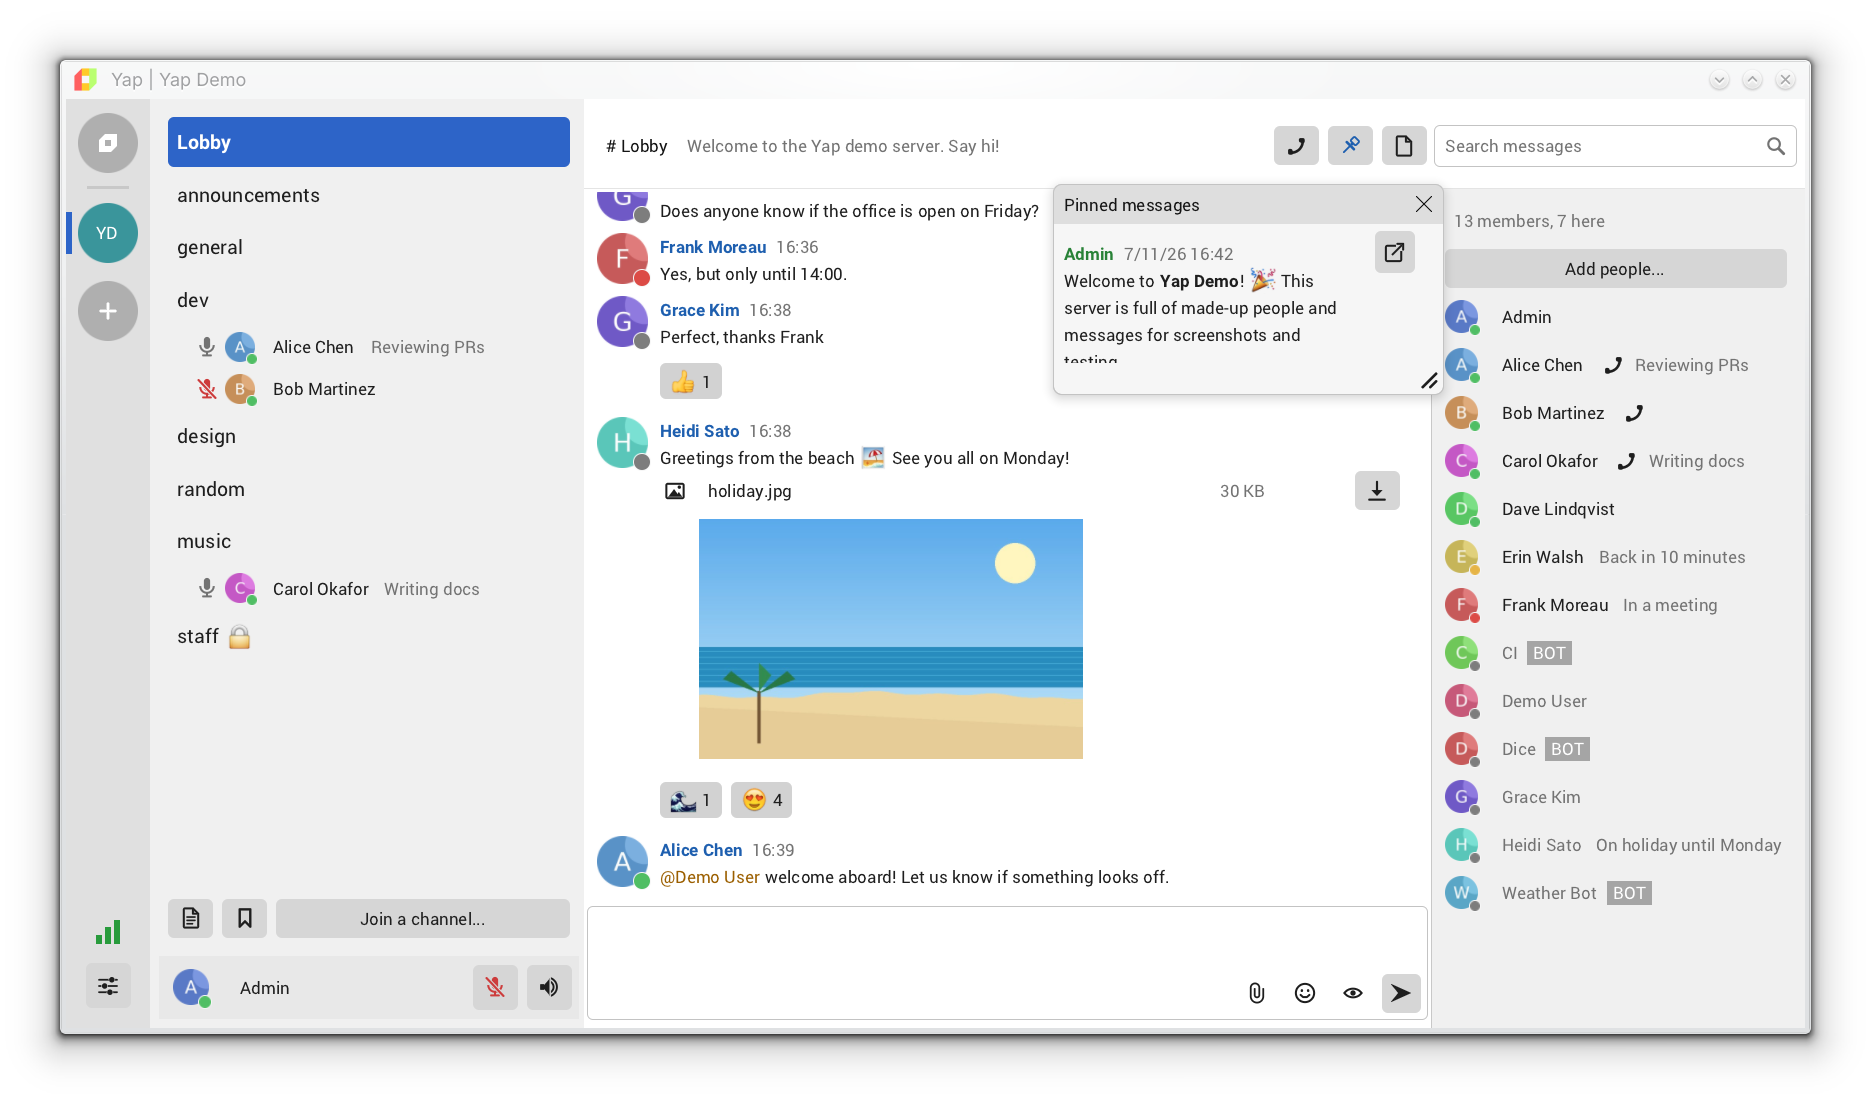
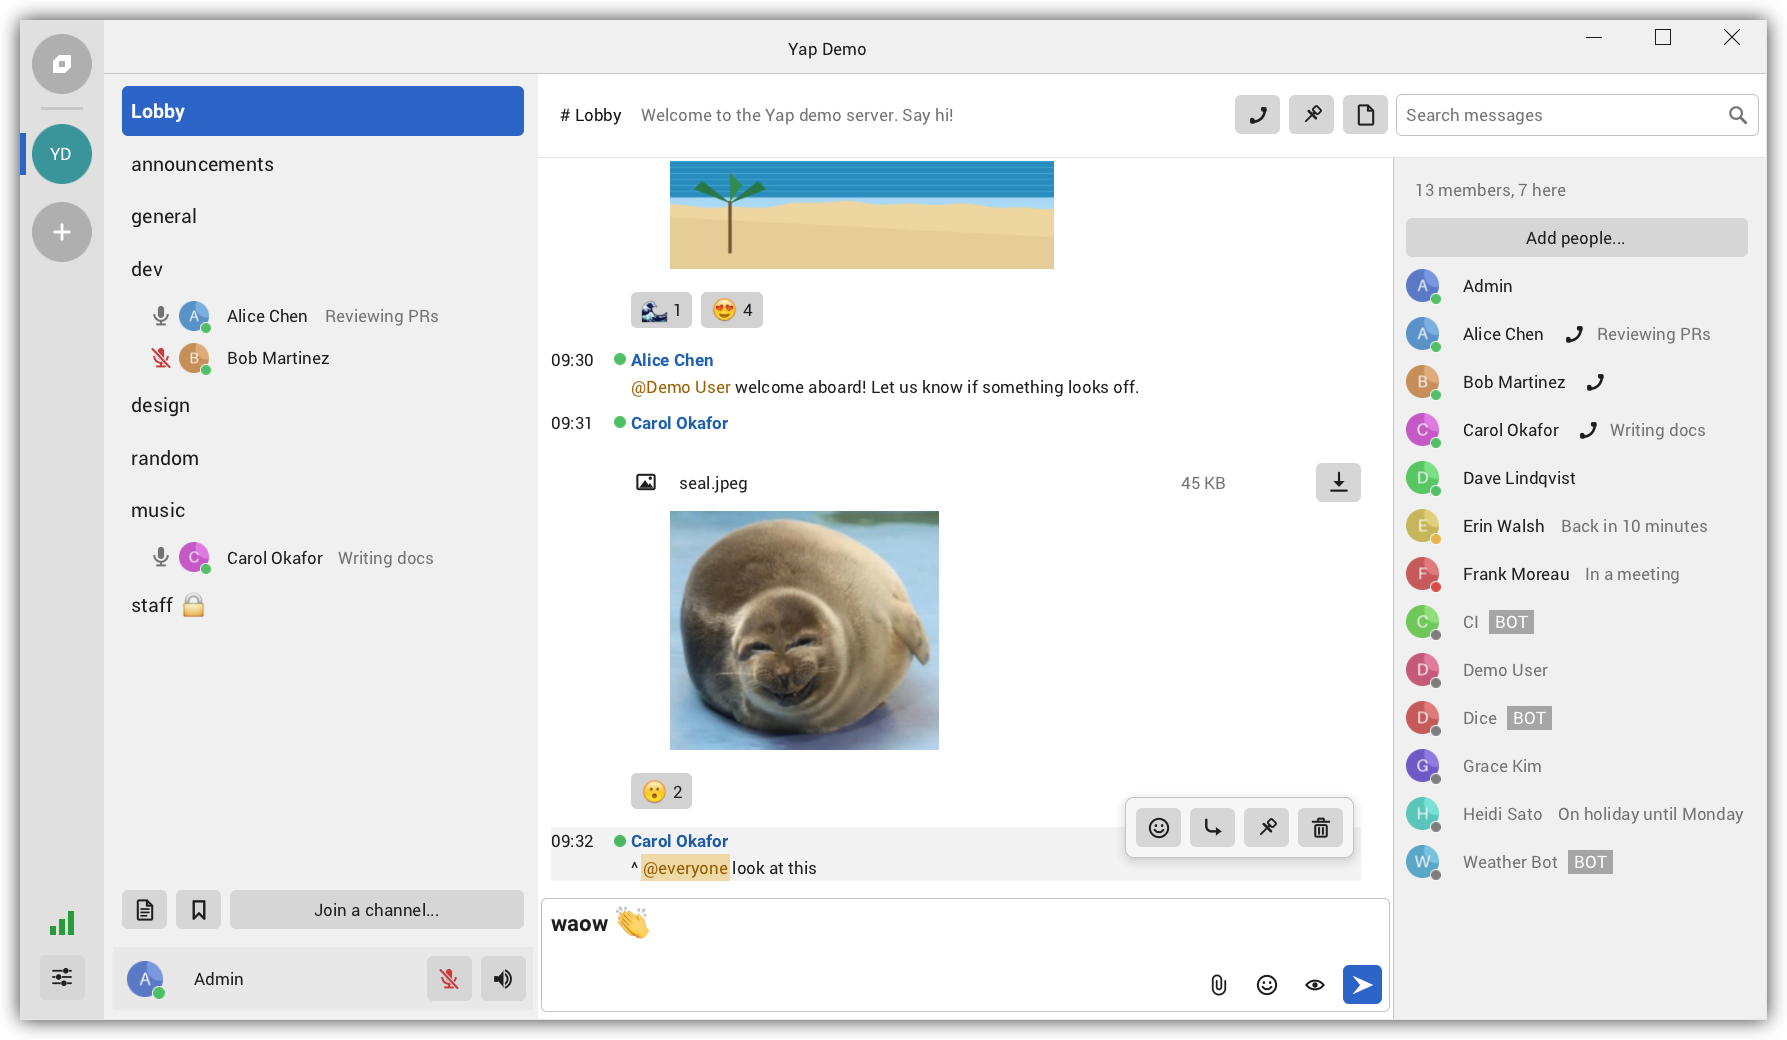
demo image

Changed region(s): [[0.0, 0.0, 1.0, 1.0], [0.0923, 0.4923, 0.2462, 0.6154], [0.6463, 0.4308, 0.6771, 0.4615]]

diff --git a/scripts/demo.py b/scripts/demo.py
@@ -85,7 +85,7 @@ BOTS = [  # username, display, hue
     ("dice", "Dice", 0.0),
 ]
 ROLES = {  # name: (permissions, members)
-    "Moderators": ("Manage_Messages,Pin_Messages,Move_Members,Mute_Members,Ban_Members", ["alice", "carol"]),
+    "Moderators": ("Manage_Messages,Pin_Messages,Move_Members,Mute_Members,Ban_Members,Mention_Everyone", ["alice", "carol"]),
     "Developers": ("Pin_Messages,Create_Channels", ["bob", "dave", "alice"]),
 }
 # name, topic, kind (None, "text-only", "private", "archived"), members of a
@@ -141,6 +141,8 @@ CHAT = {
         M("heidi", "Greetings from the beach 🏖 See you all on Monday!", img="beach",
           react={"😍": ["alice", "carol", "erin", "bob"], "🌊": ["grace"]}),
         M("alice", "@demo welcome aboard! Let us know if something looks off."),
+        M("carol", img="seal", react={"😮": ["bob", "erin"]}),
+        M("carol", "^ @everyone look at this"),
     ],
     "announcements": [
         M("admin", "# Server update\nWe moved to the new server today. **What's new:**\n\n- Voice rooms in every channel\n- Message reactions and threads\n- Markdown in messages\n- Pictures and files\n\nHave fun!",
@@ -287,8 +289,13 @@ def shortcodes(text):
 
 
 def mentions(text, ids):
-    """@username as the mention token that the server records (<@17>)."""
-    return re.sub(r"@(\w+)", lambda m: f"<@{ids[m.group(1)]}>" if m.group(1) in ids else m.group(0), text)
+    """@username as the mention token that the server records (<@17>), and
+    @everyone as <@everyone> (which needs Mention_Everyone, or it stays text)."""
+    def token(m):
+        if m.group(1) == "everyone":
+            return "<@everyone>"
+        return f"<@{ids[m.group(1)]}>" if m.group(1) in ids else m.group(0)
+    return re.sub(r"@(\w+)", token, text)
 
 
 # ----------------------------------------------------------------------------
@@ -441,9 +448,15 @@ def pic_palette():
     return "palette.png", encode(img)
 
 
+def pic_seal():
+    with open(os.path.join(ROOT, "scripts", "seal.jpeg"), "rb") as f:
+        return "seal.jpeg", f.read()
+
+
 IMAGES = {
     "sunset": pic_sunset, "mountain": pic_mountain, "beach": pic_beach,
     "dashboard": pic_dashboard, "mockup": pic_mockup, "palette": pic_palette,
+    "seal": pic_seal,
 }
 
 
@@ -506,10 +519,11 @@ class Headless:
             yap, "-headless", server, f"-user:{user}", f"-user-password:{password}",
             f"-key:{keys}/{name}.key", f"-known-servers:{keys}/{name}.known", f"-device:demo", *extra,
         ]
-        self.log = open(f"{logs}/{name}.log", "w")
+        self.log = open(f"{logs}/{name}.log", "w", encoding="utf-8")
         self.lines = []
         self.cv = threading.Condition()
-        self.p = subprocess.Popen(args, stdin=subprocess.PIPE, stdout=subprocess.PIPE, stderr=subprocess.STDOUT, text=True, bufsize=1)
+        self.p = subprocess.Popen(args, stdin=subprocess.PIPE, stdout=subprocess.PIPE, stderr=subprocess.STDOUT, text=True, bufsize=1,
+                                  encoding="utf-8", errors="replace")
         threading.Thread(target=self.read, daemon=True).start()
 
     def read(self):
@@ -536,12 +550,18 @@ class Headless:
 
     def send(self, line, expect=None, timeout=10):
         """Sends a command, waits for `expect` in the log if given, and
-        complains about the warnings and errors it caused."""
-        with self.cv:
-            since = len(self.lines)
-        self.p.stdin.write(line + "\n")
-        self.p.stdin.flush()
-        m = self.wait(expect, since, timeout) if expect else None
+        complains about the warnings and errors it caused. A command the server
+        turned away for coming too fast is sent again."""
+        for _ in range(10):
+            with self.cv:
+                since = len(self.lines)
+            self.p.stdin.write(line + "\n")
+            self.p.stdin.flush()
+            m = self.wait(expect + "|Too many requests" if expect else "Too many requests", since, timeout if expect else 0.25)
+            if m and "Too many requests" in m.group(0):
+                time.sleep(1)
+                continue
+            break
         if expect and not m:
             print(f"  ! {self.name}: no '{expect}' after {line.split()[0]}", file=sys.stderr)
         time.sleep(0.25)
